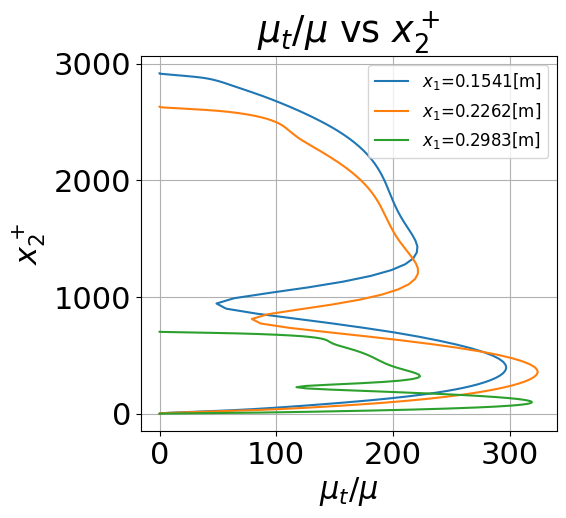
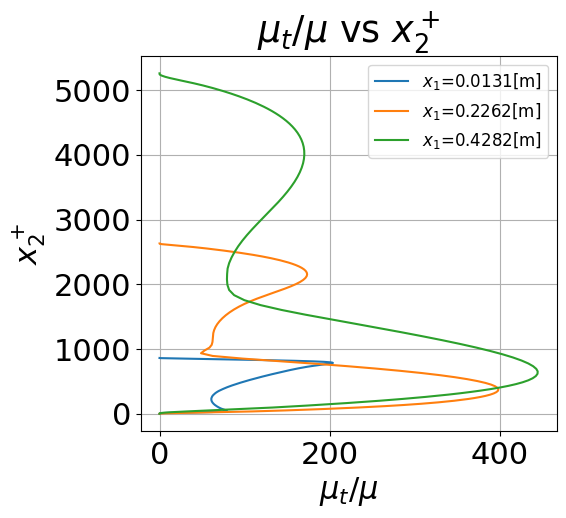
pilots

diff --git a/Assignment 2/pl_vect.py b/Assignment 2/pl_vect.py
@@ -297,12 +297,12 @@ print(f'the maximum turbulent viscosity is {np.max(vist_2d)}$[Ns/m^2]$ at x_1={x
 def x2_plus(x2,u_t,nu): #Kanske fixa så att vi använda endast x2[1:,:] och använder x2[0,:] som vägg höjd?
     return (x2-x2[0])*u_t/nu
 u_t_bot = Shear_bottom['Ustar (m/s)'].values[::-1]
-x1_index = [70,100,130] #Somewhat deliberately only choose points where bot is at heigth 0
-#x1_index = [5,100,190]
+#x1_index = [70,100,130] #Somewhat deliberately only choose points where bot is at heigth 0
+x1_index = [5,100,190]
 fig1,ax1 = plt.subplots()
 plt.subplots_adjust(left=0.25,bottom=0.10)
 for i in x1_index:
-    plt.plot(vist_2d[i,:]/mu,x2_2d[i,:],label=f'x_1={round(x1_2d[i,0],3)}[m]')
+    plt.plot(vist_2d[i,:]/mu,x2_2d[i,:]-x2_2d[i,0],label=f'$x_1$={round(x1_2d[i,0],3)}[m]')
 plt.grid()
 plt.xlabel('$\mu_t/\mu$')
 plt.ylabel('$x_2$')
@@ -346,6 +346,15 @@ for i in x1_index:
     plt.legend(prop = {'size':12})
     plt.show()
 
+    plt.plot(viscdisp_2d[i,20:-20],x2_2d[i,20:-20],label=f'viscous')
+    plt.plot(turbdisp_2d[i,20:-20],x2_2d[i,20:-20],label=f'turbulent')
+    plt.grid()
+    plt.xlabel('Diffusion')
+    plt.ylabel('$x_2$')
+    plt.title(f'Diffusion for $x_1$={round(x1_2d[i,0],4)}[m], without edges.')
+    plt.legend(prop = {'size':12})
+    plt.show()
+
 fig1,ax1 = plt.subplots()
 plt.subplots_adjust(left=0.25,bottom=0.10)
 for i in x1_index:
@@ -357,7 +366,6 @@ for i in x1_index:
     plt.title(f'Diffusion for $x_1$={round(x1_2d[i,0],4)}[m]')
     plt.legend(prop = {'size':12})
     plt.show()
-
 
 
 #%% AH3.6
